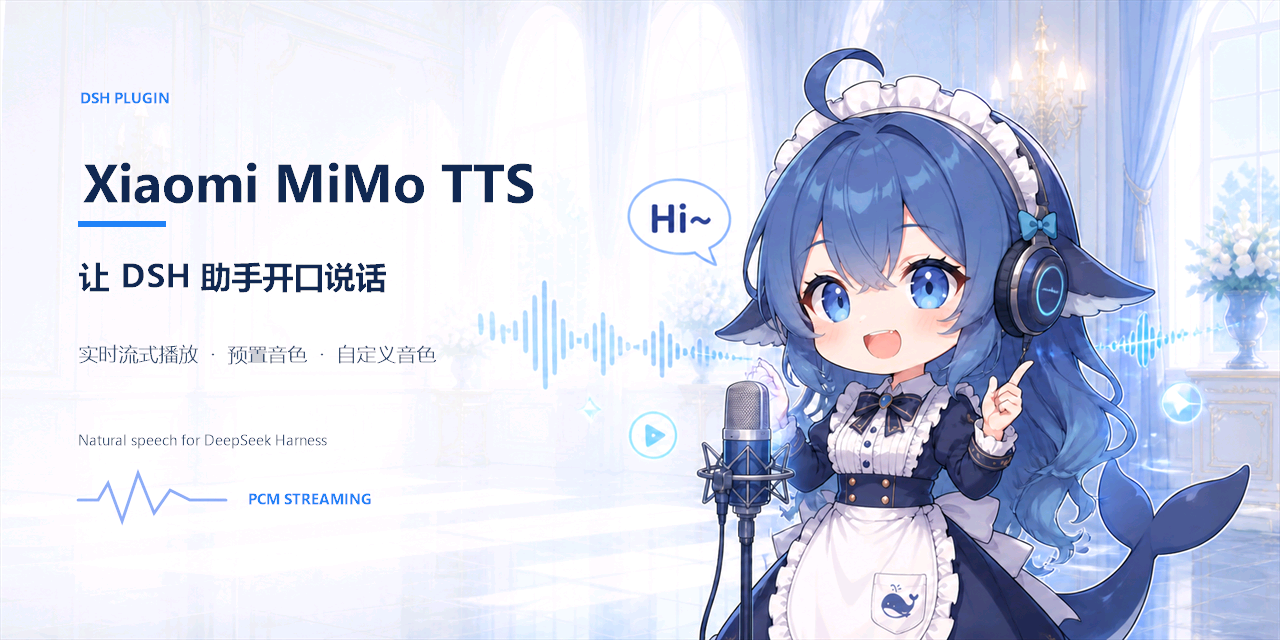
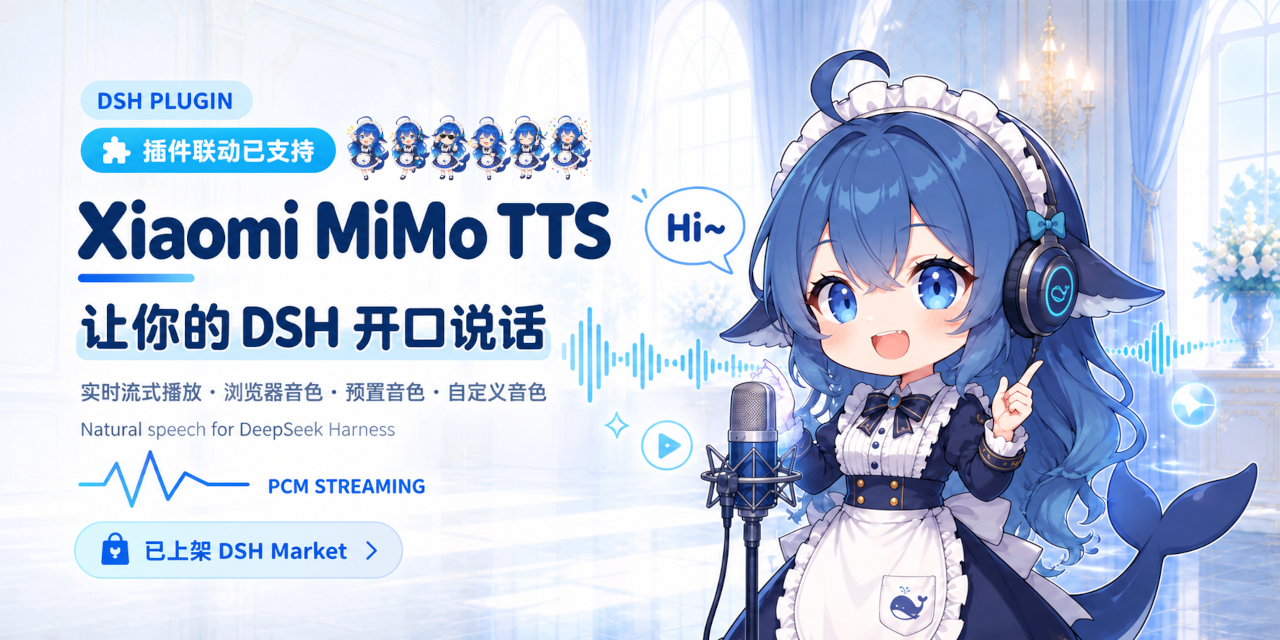
📃 docs: 新版文档

diff --git a/README.md b/README.md
@@ -12,10 +12,11 @@
 <p><a href="README.en.md"><strong>English README →</strong></a></p>
 
 ## 🎨 预览
-| 预置音色 | 自定义音色 |
-|:---:|:---:|
-| ![Xiaomi MiMo 设置菜单](assets/menu.png) | ![自定义音色](assets/preset.png) |
+
+> [🧐 Preview Pages 预览本插件](https://ppy-web.github.io/dsh-plugin-xiaomi-mimo-tts)
+
 | 设置界面 | UI示例 |
+|:---:|:---:|
 | ![UI](assets/setting.png) | ![UI](assets/image.png) |
 
 ## ✨ 功能
@@ -98,6 +99,7 @@ Release tgz 已包含构建产物，无需执行 `pnpm approve-builds`。
 可选音色来自浏览器 Web Speech API，是否离线及实际可用范围取决于浏览器、操作系统和网络服务。
 
 ## 🔌 三方插件联动
+![whale-girls](assets\whale-girls.png)
 
 我们对外暴露了PCM流式播放能力。
 Web 插件可以直接调用本插件的服务进行流式播放。可直接在需要播放的位置写一行：
@@ -166,8 +168,9 @@ pnpm pack:check
 .\start\dsh-plugin-reinstall.bat 3.0.1
 ```
 
-## 🤝 推荐配合插件一起使用
-
+## 🤝 推荐
+> 本插件的鲸鱼娘形象来源 `dsh-deep-whale` `dsh-whale-musume`
+- [dsh-deep-whale](https://github.com/Small-tailqwq/dsh-deep-whale#readme)：鲸鱼娘主题皮肤系列。
 - [dsh-whale-musume](https://github.com/Sutera-Diffusus/dsh-whale-musume#readme)：元气鲸鱼娘桌宠。
 - [dsh-plugin-uisfx](https://github.com/XanthanL/dsh-plugin-uisfx#readme)：语义化 UI 音效。
 - [dsh-dream-skin](https://github.com/RevolutionLA/dsh-dream-skin#readme)：原生换肤、背景壁纸、强调色、主题包 。
